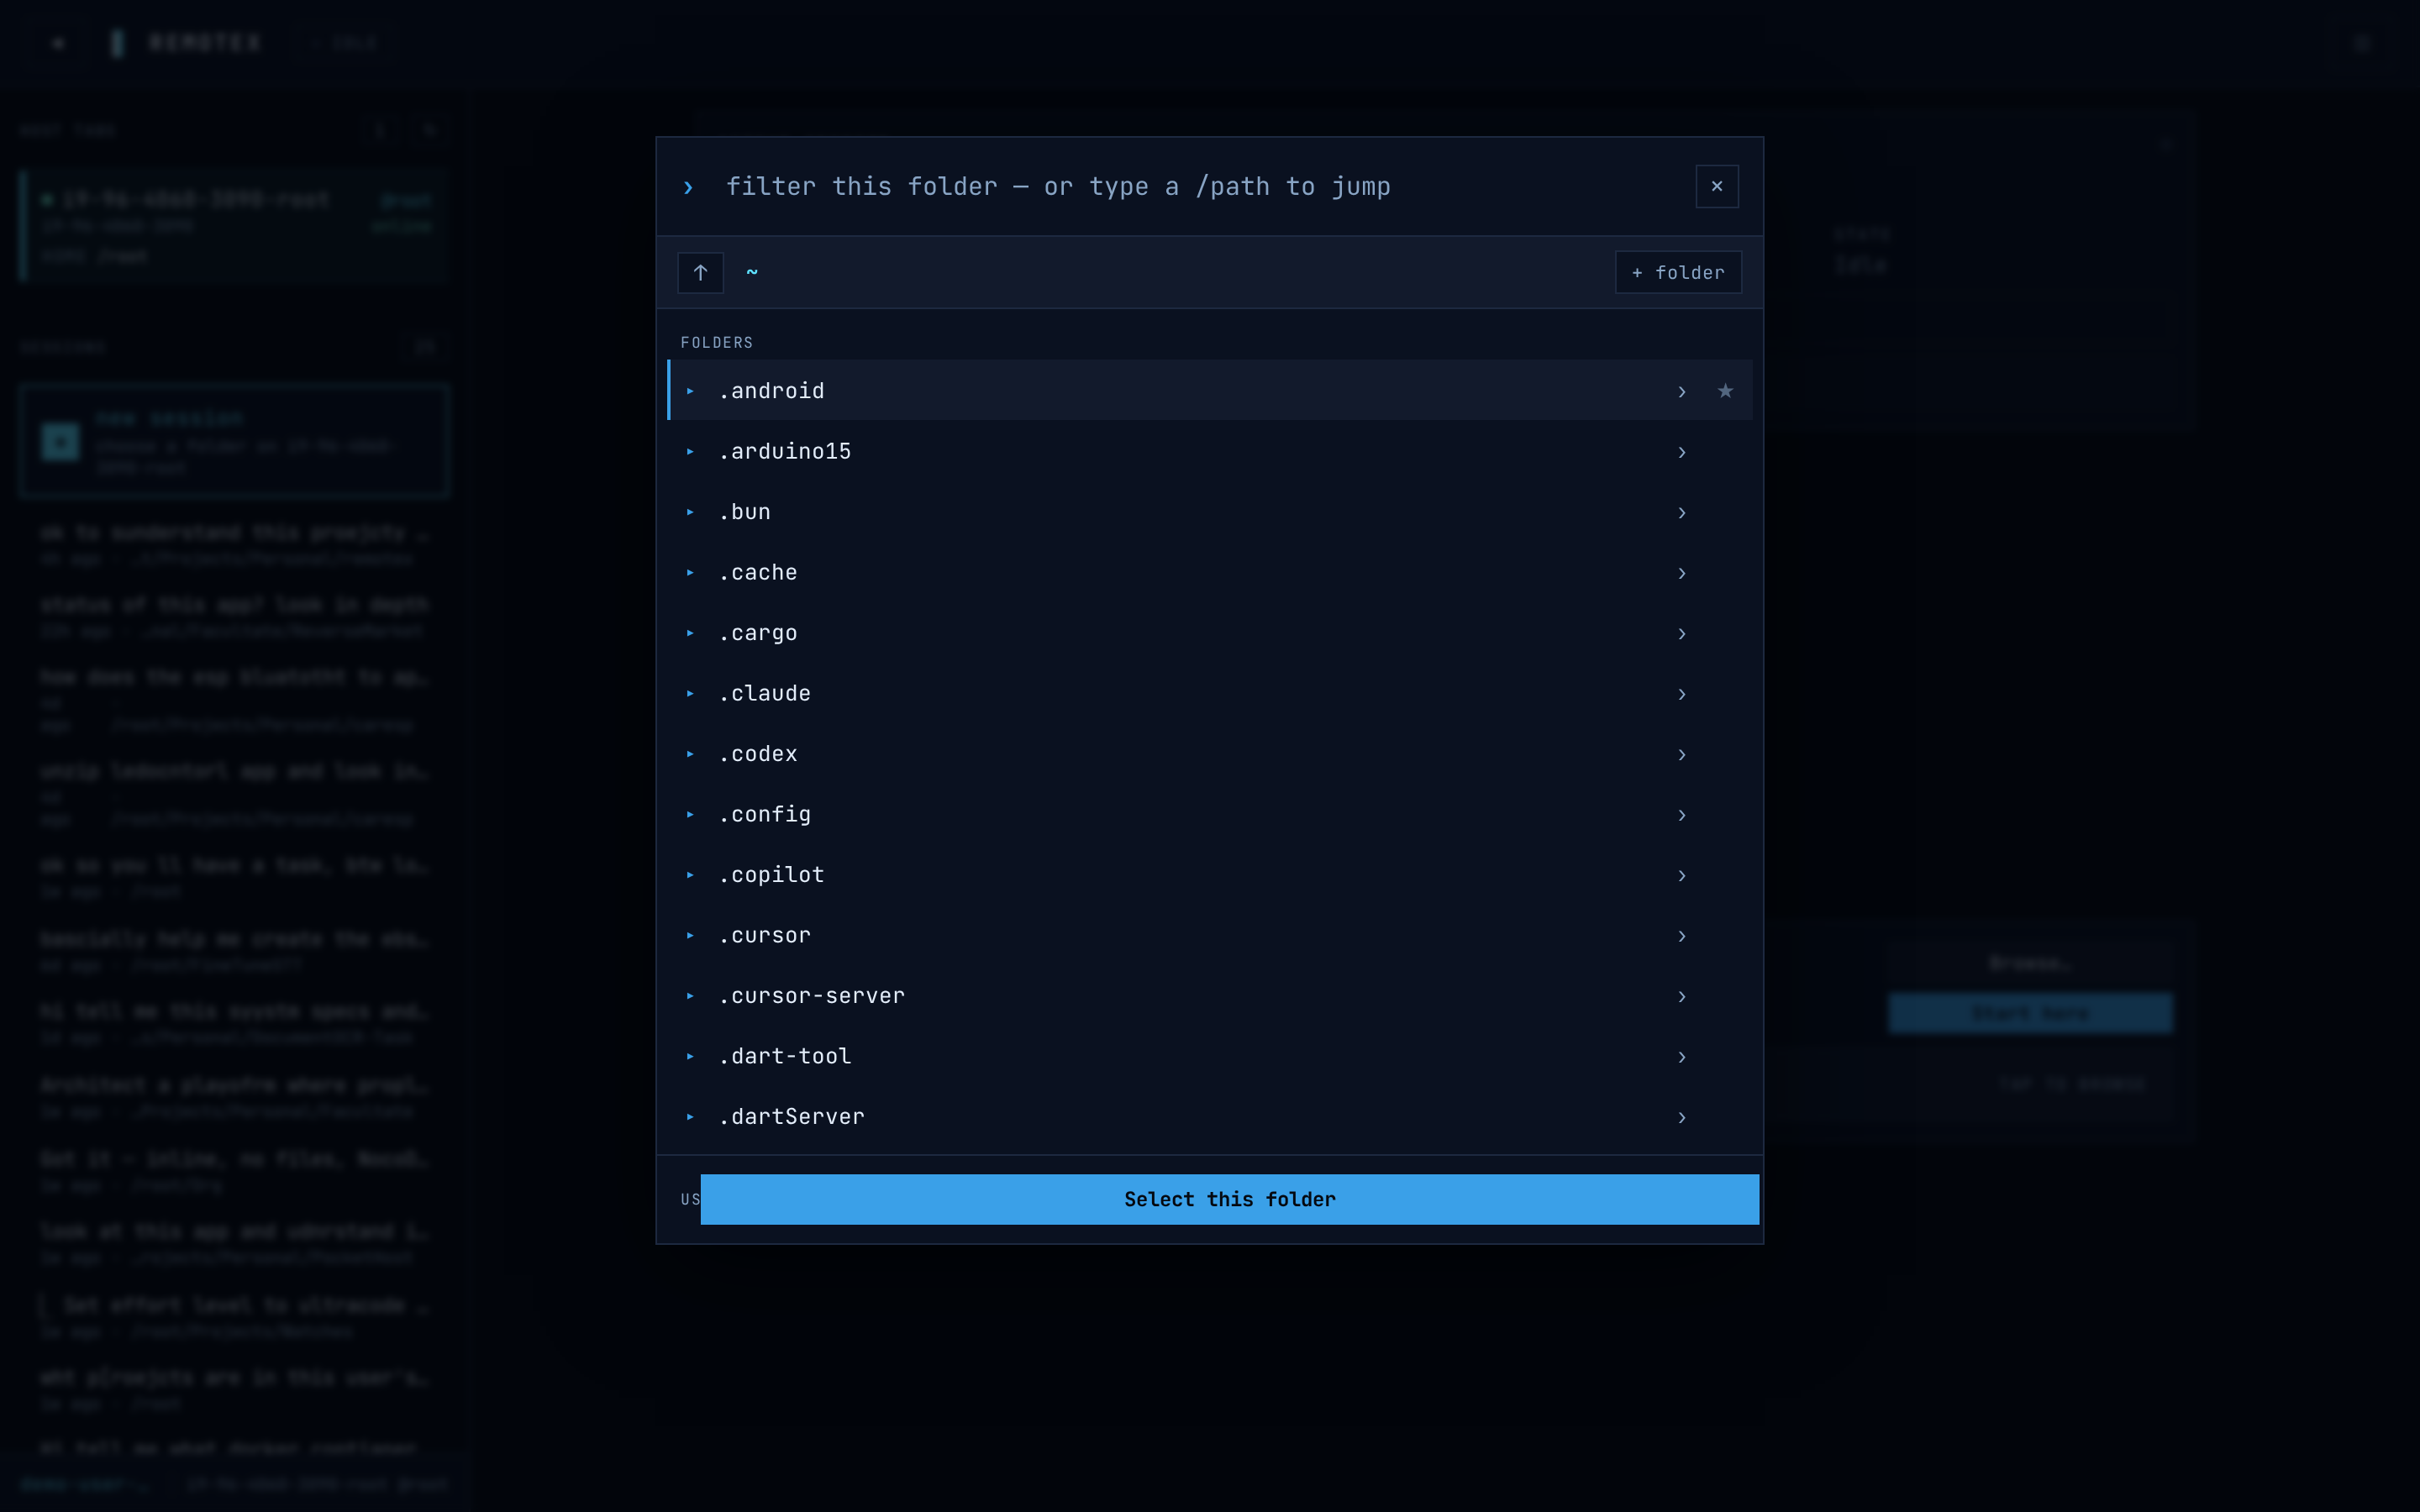
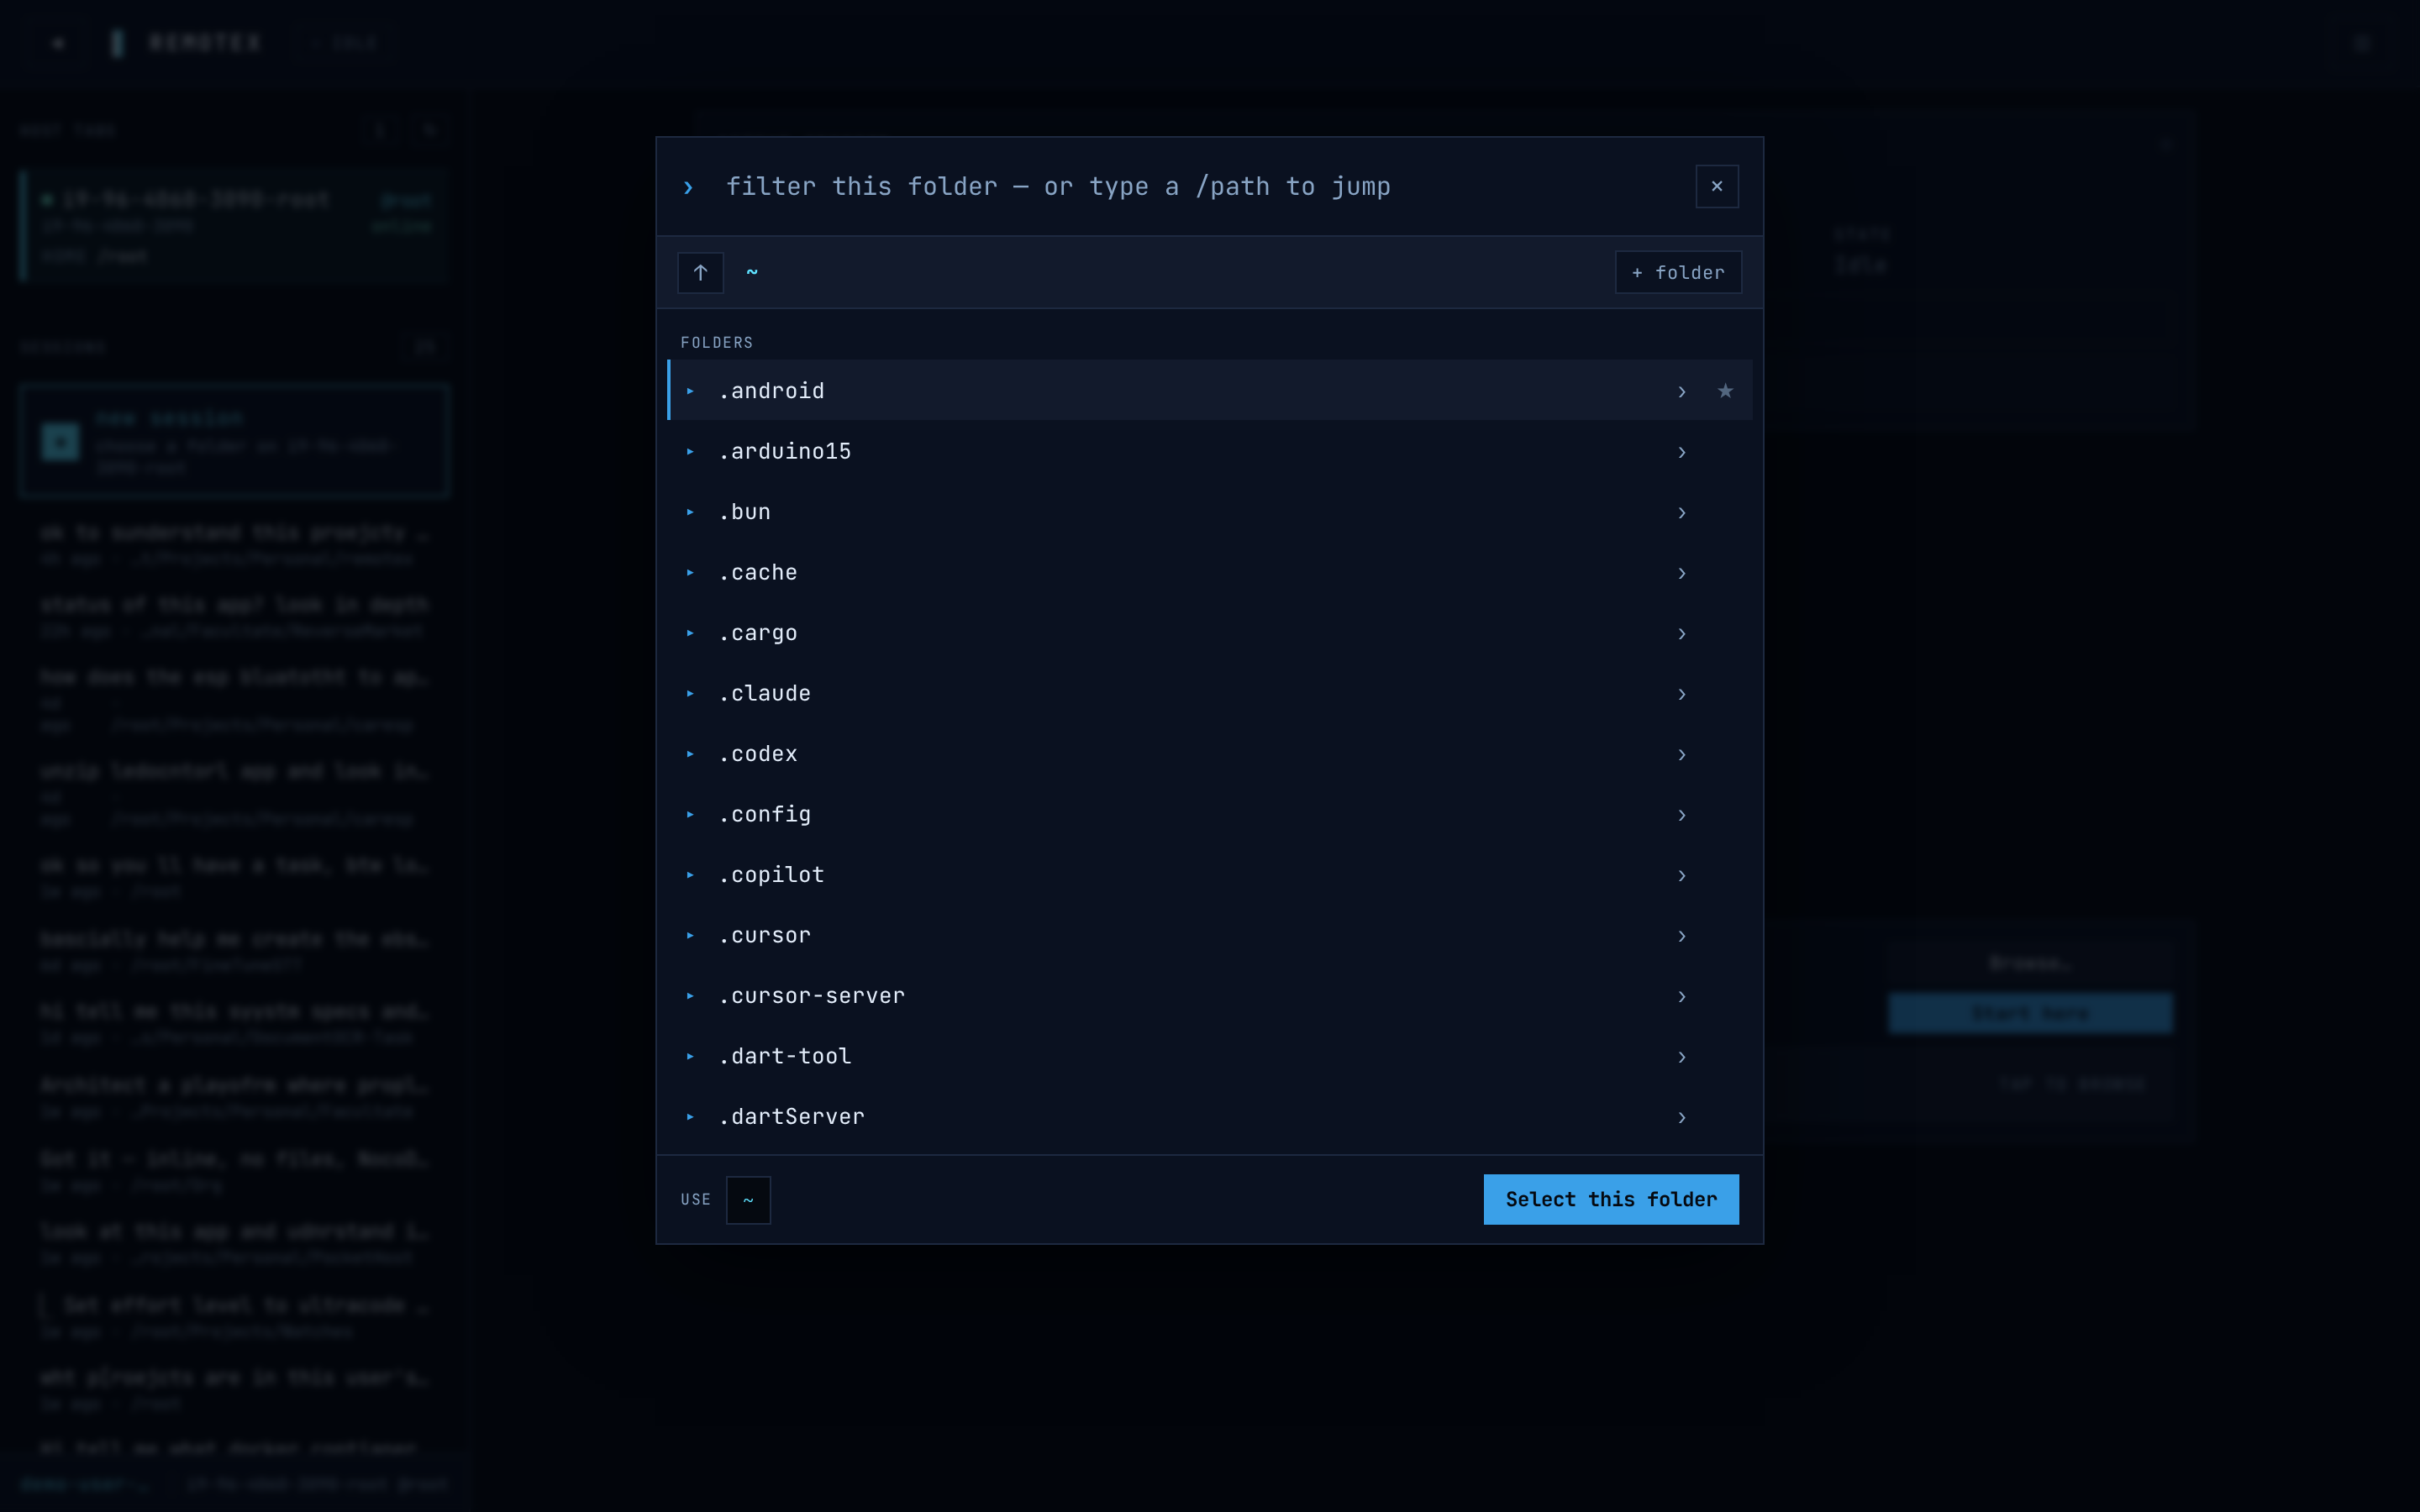
fix(web): Jump select-bar button no longer overlaps the path
The global `.btn-primary { width: 100% }` rule made the "Select this folder"
button fill the footer row, collapsing the USE/path label to zero width and
overlapping it. Scope the button to content-width inside `.jp-selectbar`
(`.jp-selectbar .jp-use { width: auto }`) and let `.jp-cur` take the remaining
space; keep the full-width stacked button on mobile. Refresh the affected
screenshots.

Claude-Session: https://claude.ai/code/session_01LpR4ipBN9xQic9nWH3VVGw

Changed region(s): [[0.2812, 0.7778, 0.75, 0.8089]]

diff --git a/apps/web/src/styles.css b/apps/web/src/styles.css
@@ -2562,7 +2562,7 @@ main.screen-host {
   border-top: 1px solid var(--line);
   background: var(--panel);
 }
-.jp-cur { display: flex; align-items: center; gap: 8px; min-width: 0; }
+.jp-cur { display: flex; align-items: center; gap: 8px; min-width: 0; flex: 1 1 auto; }
 .jp-cur-label {
   font-size: 9px;
   letter-spacing: 0.14em;
@@ -2580,7 +2580,9 @@ main.screen-host {
   white-space: nowrap;
   min-width: 0;
 }
-.jp-use { flex: 0 0 auto; }
+/* Scoped to beat the global `.btn-primary { width: 100% }` so the button
+   stays content-width on the right instead of filling the row. */
+.jp-selectbar .jp-use { flex: 0 0 auto; width: auto; }
 
 /* mobile: full-screen, fat touch targets, sticky select bar */
 @media (max-width: 640px) {
@@ -2599,7 +2601,7 @@ main.screen-host {
     gap: 8px;
     padding: 12px 14px;
   }
-  .jp-use { padding: 13px 18px; width: 100%; }
+  .jp-selectbar .jp-use { padding: 13px 18px; width: 100%; }
 }
 
 .btn-surface,